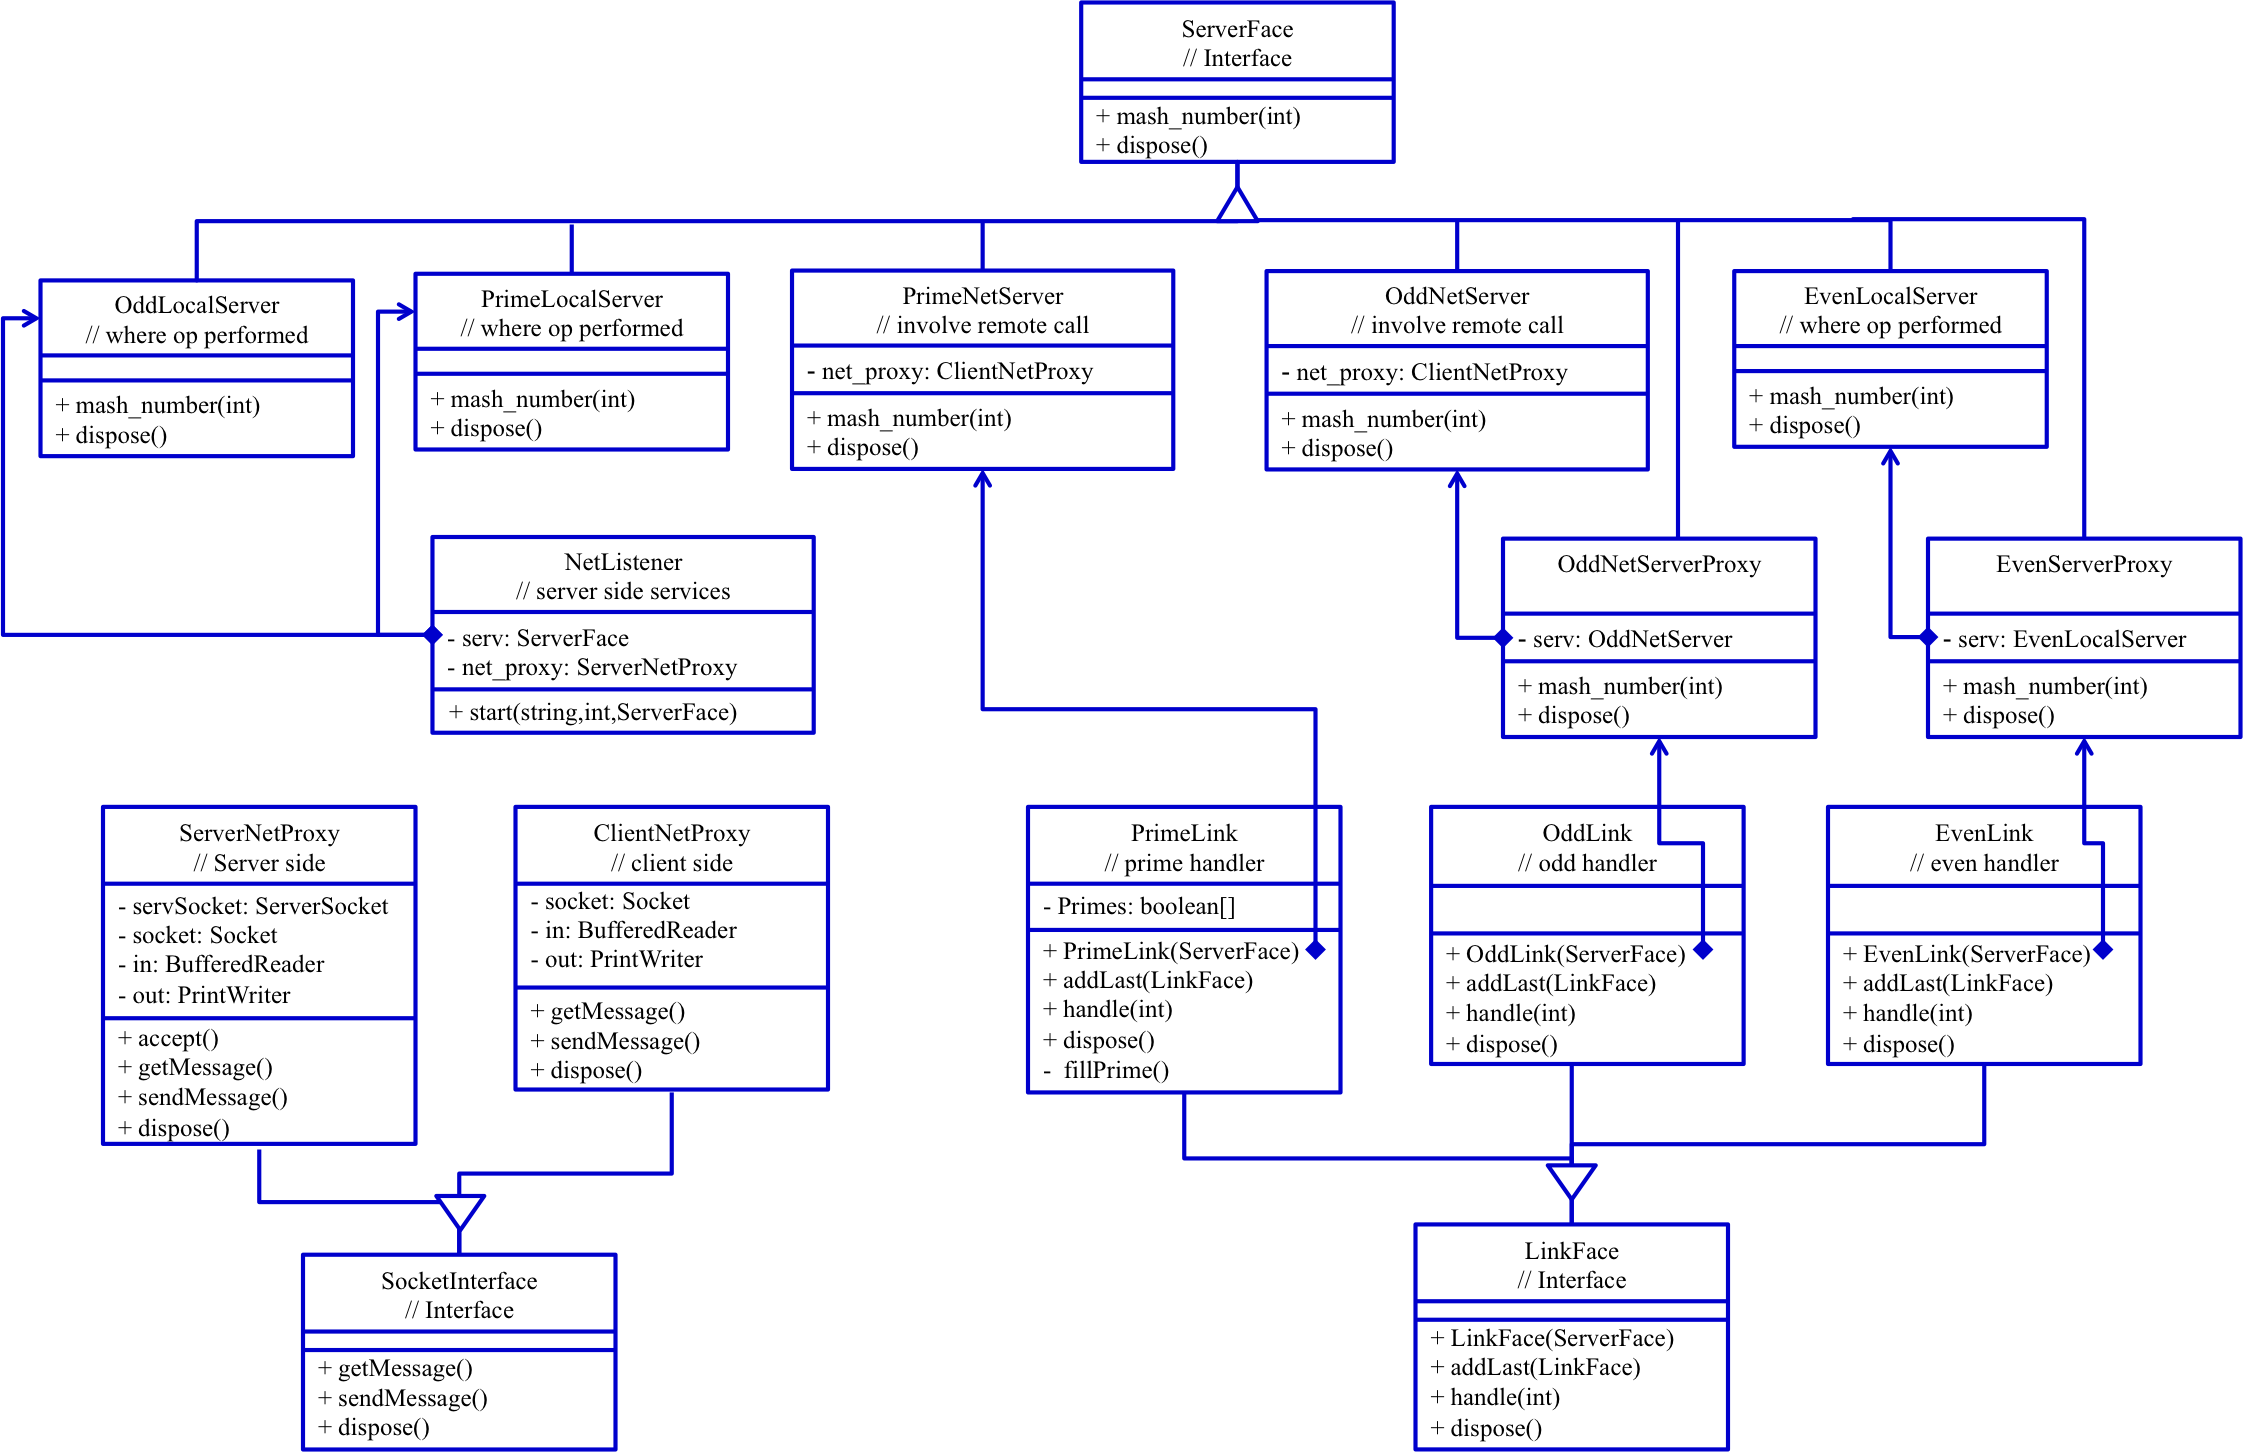
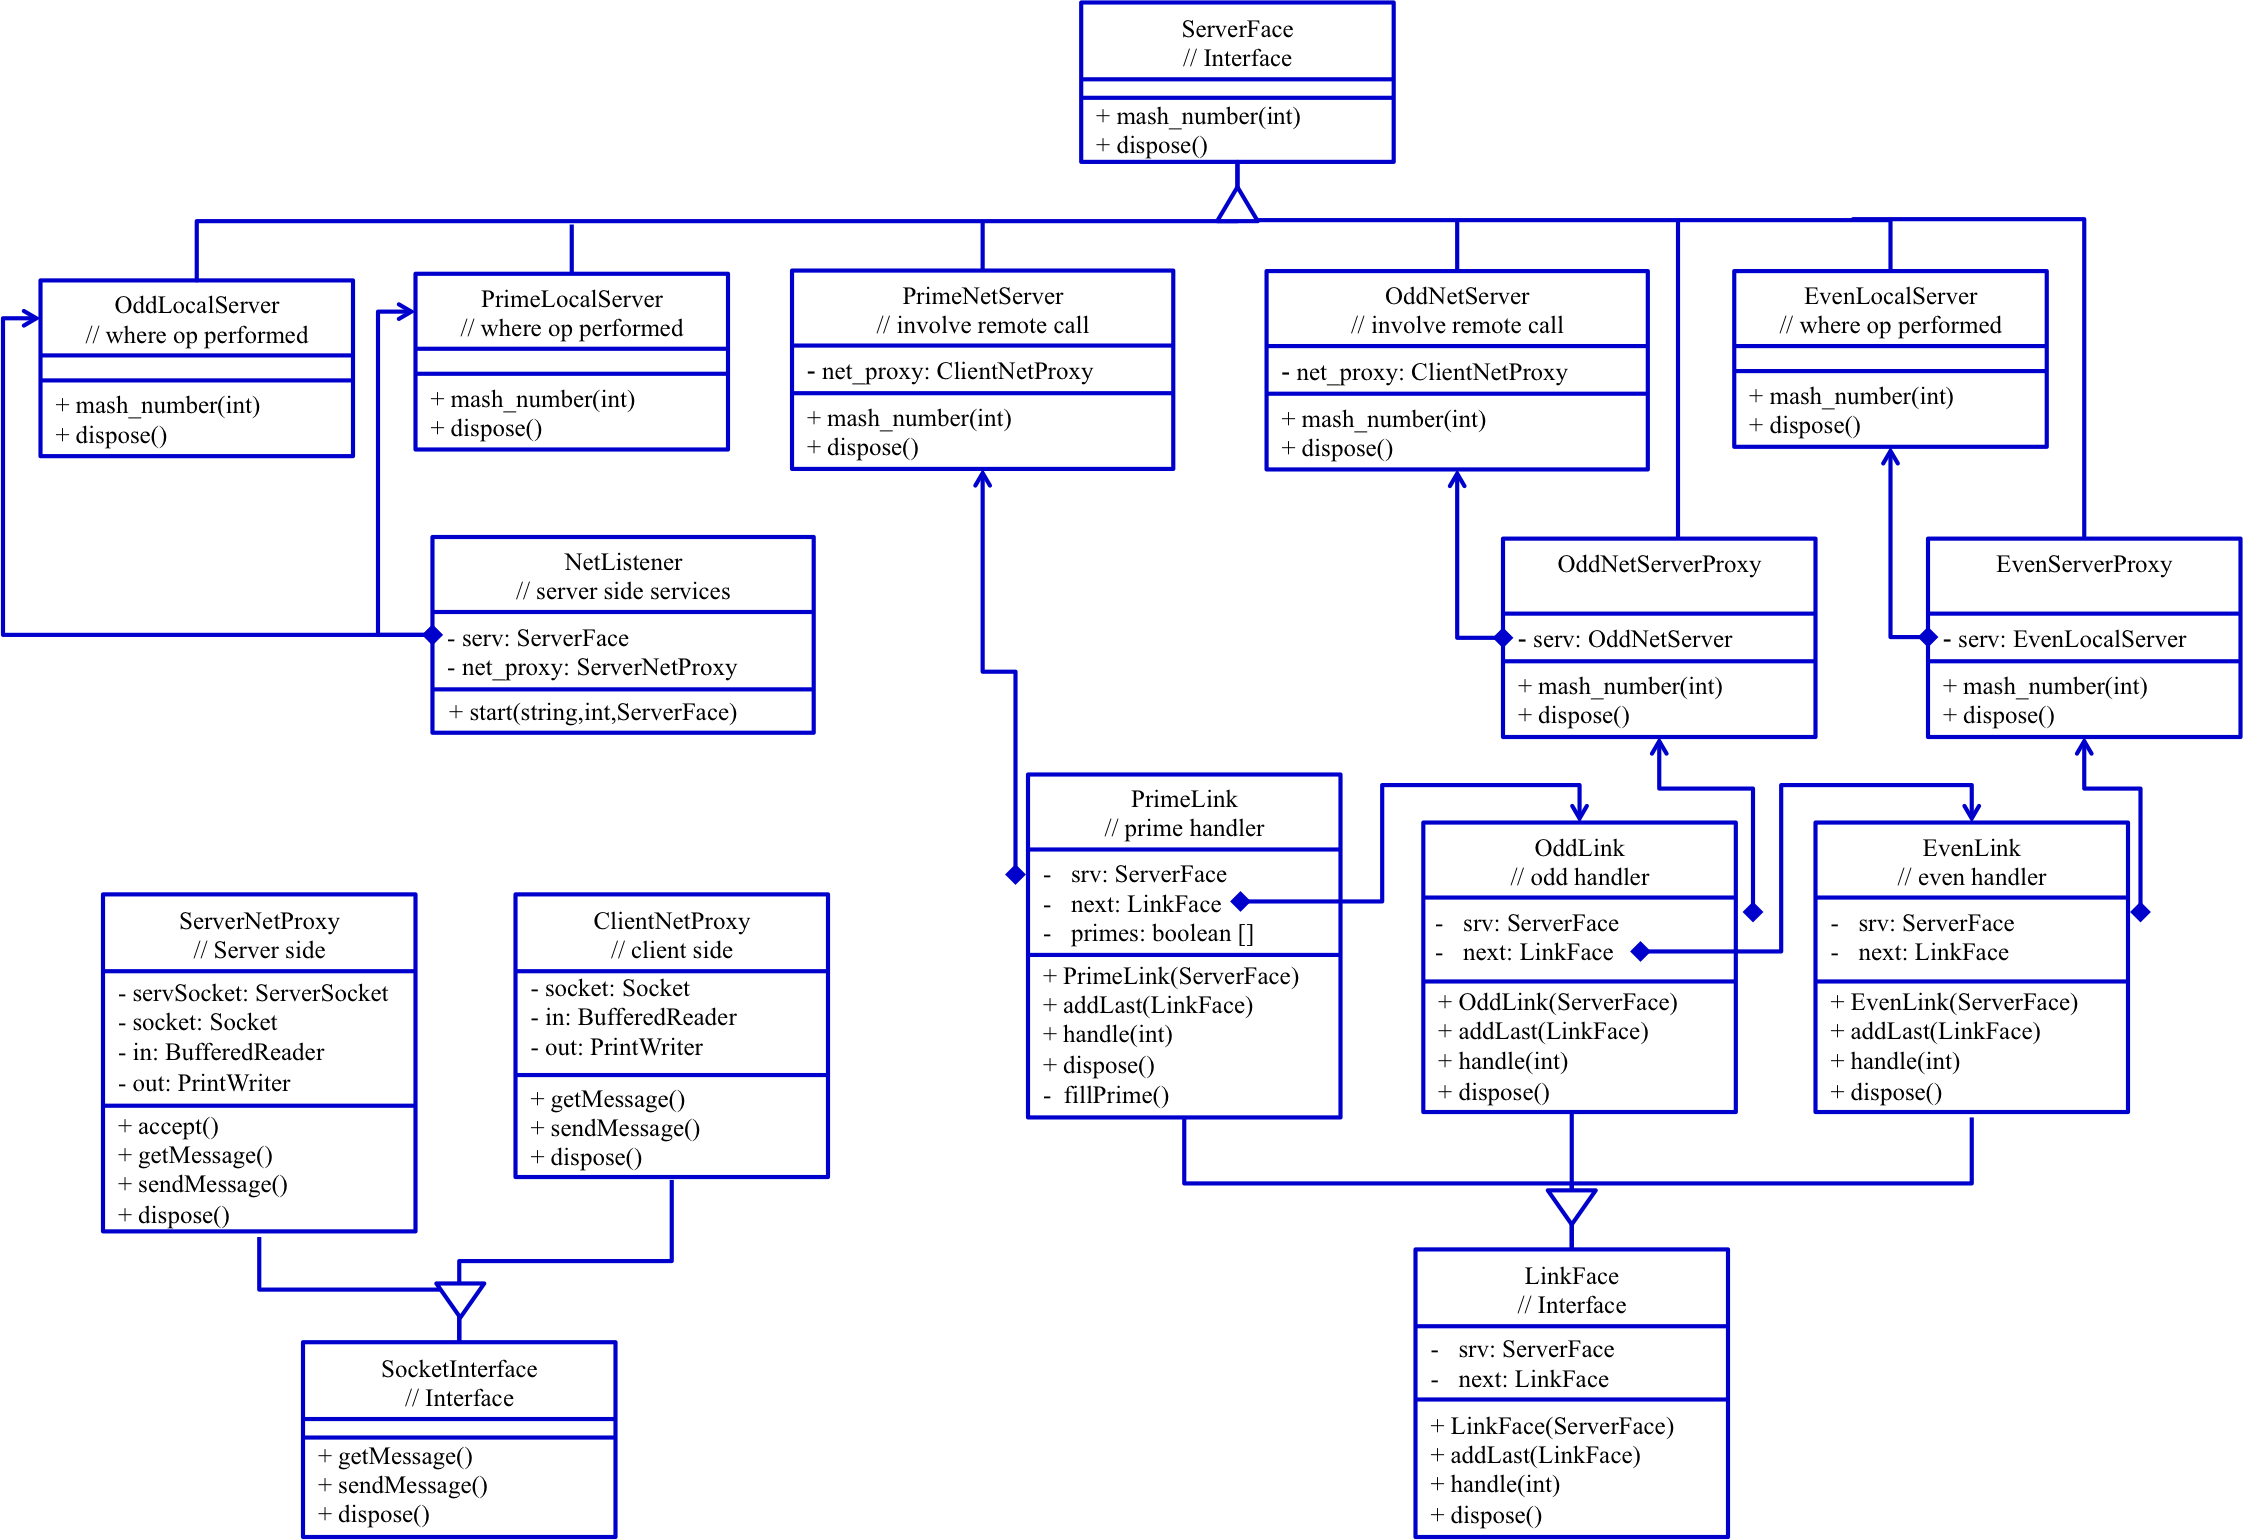
Deleted the waiting code and modified the diagram

Changed region(s): [[0.0, 0.0, 1.0, 0.9917], [0.0312, 0.5269, 0.3121, 1.0]]

diff --git a/Link.java b/Link.java
@@ -1,5 +1,4 @@
 import java.util.Arrays;
-import java.util.concurrent.*;
 
 // Chain's Link face
 abstract class LinkFace {
@@ -71,12 +70,12 @@ class PrimeLink extends LinkFace {
       	public void handle(int number) {
          	fillPrime();
 	 	if( primes[number] ) {
-			System.out.println( "Running prime handle PH…" );
+			System.out.println( "Running prime handler PH…" );
 			execute(number);
-			System.out.println( "Prime handle finished.\n" );
+			System.out.println( "Prime handler finished.\n" );
 	 	}
 	 	else {
-			if( next == null ) System.out.println( "No handle after prime" );
+			if( next == null ) System.out.println( "No handler after the prime one." );
 			else next.handle(number);  
 		}   
       	}
@@ -92,18 +91,12 @@ class OddLink extends LinkFace {
 
       	public void handle(int number) {
 	 	if( number%2 == 1 ) {
-			System.out.println( "Running odd handle OH …" );
-			System.out.println( "Waiting for 30 seconds … " );
-			try {
-				TimeUnit.SECONDS.sleep( 30 );
-			} catch( Exception e ) { 
-				e.printStackTrace();
-			}
+			System.out.println( "Running odd handler OH …" );
 			execute(number);
-			System.out.println( "Odd handle finished.\n" );
+			System.out.println( "Odd handler finished.\n" );
 	 	}
 	 	else {
-			if( next == null ) System.out.println( "No handle after Odd" );
+			if( next == null ) System.out.println( "No handler after the odd one." );
 			else next.handle(number); 
 		}    
       	}
@@ -119,12 +112,12 @@ class EvenLink extends LinkFace {
 
       	public void handle(int number) {
 	 	if( number%2 == 0 ) {
-			System.out.println( "Running even handle EH …" );
+			System.out.println( "Running even handler EH …" );
 			execute(number);
-			System.out.println( "Even handle finished.\n" );
+			System.out.println( "Even handler finished.\n" );
 	 	}
 	 	else {
-			if( next == null ) System.out.println( "No handle after even" );
+			if( next == null ) System.out.println( "No handler after the even one." );
 			else next.handle(number);
 		}     
       	}
